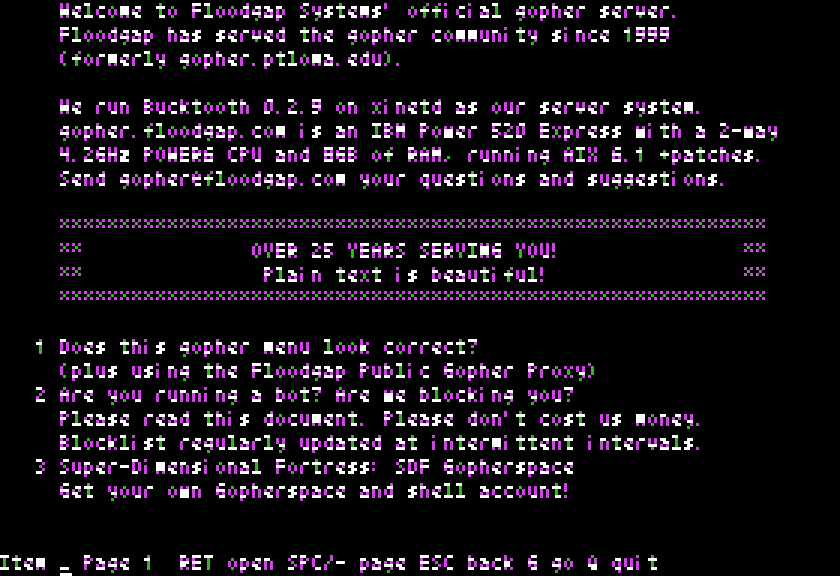
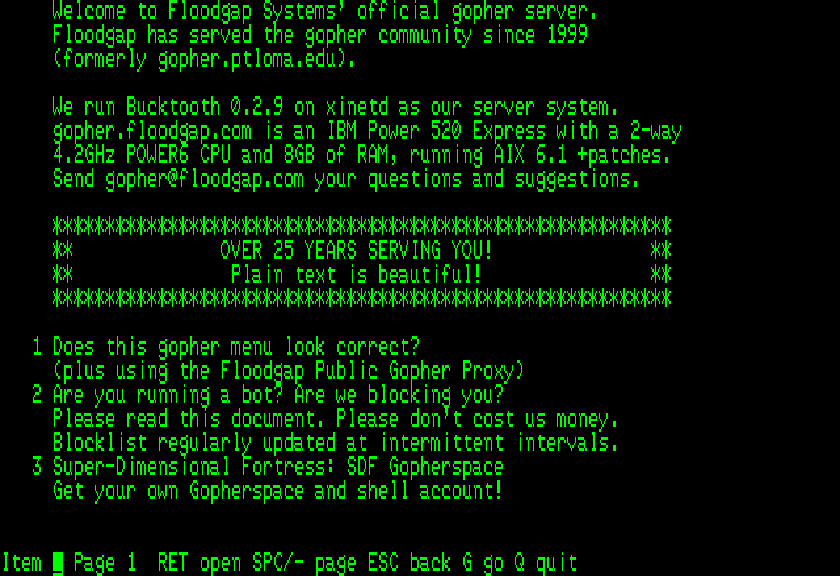
Replace Soft-70 screenshots with VideoTerm images

diff --git a/src/test/java/com/nordstrom/uthernet/apple/Screenshots.java b/src/test/java/com/nordstrom/uthernet/apple/Screenshots.java
@@ -1,11 +1,13 @@
 package com.nordstrom.uthernet.apple;
 
-import com.nordstrom.emulator.MemoryBus;
-import com.nordstrom.emulator.system.HiResRenderer;
-import com.nordstrom.emulator.system.VideoSoftSwitches;
+import com.nordstrom.emulator.expansion.VideoTerm;
+import com.nordstrom.emulator.expansion.VideoTermRenderer;
+import com.nordstrom.emulator.system.RomFiles;
 
 import javax.imageio.ImageIO;
 import java.awt.Color;
+import java.awt.Graphics2D;
+import java.awt.RenderingHints;
 import java.awt.image.BufferedImage;
 import java.io.BufferedReader;
 import java.io.File;
@@ -13,19 +15,27 @@ import java.io.IOException;
 import java.io.InputStreamReader;
 import java.net.Socket;
 import java.nio.charset.StandardCharsets;
+import java.nio.file.Path;
 import java.util.ArrayList;
 import java.util.List;
+import java.util.Properties;
 
 /**
  * Captures the documentation's screenshots: runs TELNET and GOPHER on the
  * 6502 (AppleMachine), connected through the card's virtual network to
- * The Norse Wanderer BBS and Floodgap's Gopher server, and draws the
- * Soft-70 Hi-Res screen with ReplicApple2Plus's own HiResRenderer at the
- * application's 3x scale. Needs Internet access.
+ * The Norse Wanderer BBS and Floodgap's Gopher server, with a VideoTerm in
+ * slot 3, and draws its 80-column screen the way ReplicApple2Plus does: the
+ * card model's own VideoTermRenderer, green on black, scaled to the
+ * application's screen. Needs Internet access, and the VideoTerm's two ROM
+ * images in the folder given as the second argument.
+ * <p>
+ * Arguments: the folder to write the images to, then the ROM folder.
  */
 public final class Screenshots {
 
-    private static final int SCALE = 3;
+    /** The application's screen: 280x192 at 3x, which its 80-column view fills. */
+    private static final int WIDTH = 840, HEIGHT = 576;
+    private static final int LIT = Color.GREEN.getRGB();
     private static final String BBS = "www.norsewanderer.com:2323";
     private static final String GOPHER_HOST = "gopher.floodgap.com";
     private static final int GOPHER_PORT = 70;
@@ -34,8 +44,13 @@ public final class Screenshots {
     private static File out;
 
     public static void main(String[] args) throws Exception {
-        out = new File(args.length > 0 ? args[0] : "docs/images");
+        if (args.length < 2) {
+            throw new IllegalArgumentException("usage: Screenshots <image folder> <ROM folder>;"
+                + " with Gradle: ./gradlew screenshots -Proms=<ROM folder>");
+        }
+        out = new File(args[0]);
         out.mkdirs();
+        RomFiles.setDirectory(Path.of(args[1]));
         telnet();
         gopher();
     }
@@ -44,7 +59,7 @@ public final class Screenshots {
     // TELNET
 
     private static void telnet() throws Exception {
-        AppleMachine apple = new AppleMachine(false, "telnet.bin");
+        AppleMachine apple = machine("telnet.bin");
         try {
             apple.runUntil(() -> apple.screenContains("Connect to host"), 30_000, "the host prompt");
             apple.type(BBS);
@@ -73,7 +88,7 @@ public final class Screenshots {
         int[] textItem = locate(menu, '0');
         int[] searchItem = locate(menu, '7');
 
-        AppleMachine apple = new AppleMachine(false, "gopher.bin");
+        AppleMachine apple = machine("gopher.bin");
         try {
             apple.runUntil(() -> apple.screenContains("Go to host"), 30_000, "the go-to prompt");
             apple.type(GOPHER_HOST + "\r");
@@ -178,27 +193,42 @@ public final class Screenshots {
         }
     }
 
-    private static void save(AppleMachine apple, String name) throws IOException {
-        MemoryBus bus = new MemoryBus() {
-            @Override
-            public int read(int address) {
-                return apple.ram[address];
-            }
+    /** @return the machine with a real VideoTerm in slot 3 */
+    private static AppleMachine machine(String program) throws IOException {
+        AppleMachine apple = new AppleMachine(false, program);
+        VideoTerm videoTerm = new VideoTerm();
+        videoTerm.configure(new Properties());
+        apple.plugInWithRom(3, videoTerm);
+        Screenshots.videoTerm = videoTerm;
+        return apple;
+    }
 
-            @Override
-            public void write(int address, int value) {
-            }
-        };
-        Color[][] pixels = HiResRenderer.render(bus, new VideoSoftSwitches());
-        int w = pixels[0].length, h = pixels.length;
-        BufferedImage image = new BufferedImage(w * SCALE, h * SCALE, BufferedImage.TYPE_INT_RGB);
-        for (int y = 0; y < h * SCALE; y++) {
-            for (int x = 0; x < w * SCALE; x++) {
-                image.setRGB(x, y, pixels[y / SCALE][x / SCALE].getRGB());
+    /** The VideoTerm of the machine running now. */
+    private static VideoTerm videoTerm;
+
+    private static void save(AppleMachine apple, String name) throws IOException {
+        if (!apple.text || !apple.an0) {
+            throw new IllegalStateException("the 80-column screen isn't showing; screen:\n" + apple.screen());
+        }
+        boolean[][] dots = VideoTermRenderer.render(videoTerm, true);
+        BufferedImage card = new BufferedImage(dots[0].length, dots.length, BufferedImage.TYPE_INT_RGB);
+        for (int y = 0; y < dots.length; y++) {
+            for (int x = 0; x < dots[y].length; x++) {
+                if (dots[y][x]) {
+                    card.setRGB(x, y, LIT);
+                }
             }
         }
+        BufferedImage image = new BufferedImage(WIDTH, HEIGHT, BufferedImage.TYPE_INT_RGB);
+        Graphics2D g = image.createGraphics();
+        try {
+            g.setRenderingHint(RenderingHints.KEY_INTERPOLATION, RenderingHints.VALUE_INTERPOLATION_NEAREST_NEIGHBOR);
+            g.drawImage(card, 0, 0, WIDTH, HEIGHT, null);
+        } finally {
+            g.dispose();
+        }
         ImageIO.write(image, "png", new File(out, name));
-        System.out.println(name + "\n" + apple.screen());
+        System.out.println(name + "\n" + VideoTermRenderer.text(videoTerm));
     }
 
     private Screenshots() {

diff --git a/src/test/java/com/nordstrom/uthernet/apple/AppleMachine.java b/src/test/java/com/nordstrom/uthernet/apple/AppleMachine.java
@@ -16,7 +16,8 @@ import java.util.function.BooleanSupplier;
  * Just enough Apple II+ to run the utilities in src/apple on
  * ReplicApple2Plus's 6502: 48K of RAM, the keyboard with the shift-key mod
  * on pushbutton 2, the display soft switches, the Uthernet II in slot 1,
- * optionally a {@link VideoTermDouble} in slot 3, optionally a card in slot 0
+ * optionally a {@link VideoTermDouble} in slot 3 -- or a real card there,
+ * whose own ROM and $C800 expansion ROM are mapped -- optionally a card in slot 0
  * that bank-switches $D000-$FFFF (a Saturn or Language Card), and a
  * stand-in ROM that
  * is all RTS except the Monitor's WAIT, which IP65's timer calls. A
@@ -39,8 +40,12 @@ final class AppleMachine implements MemoryBus {
     final Uthernet2 card = new Uthernet2();
     final VideoTermDouble videoTerm;
     private final SlotCard[] otherCards = new SlotCard[8];
+    /** The cards plugged in with their ROM mapped, by slot. */
+    private final SlotCard[] romCards = new SlotCard[8];
     /** The card in slot 0 that bank-switches $D000-$FFFF, or null. */
     private SlotCard upperMemory;
+    /** The slot whose card owns $C800-$CFFF, or 0 for none. */
+    private int expansionOwner;
     private final Deque<int[]> keys = new ArrayDeque<>();
     private int keyLatch;
     private boolean shiftHeld;
@@ -71,6 +76,18 @@ final class AppleMachine implements MemoryBus {
     void plugIn(int slot, SlotCard other) {
         otherCards[slot] = other;
     }
+
+    /**
+     * Puts a card in a slot with its ROM mapped as well: its own page at
+     * $Cn00, and $C800-$CFFF while it owns that space -- claimed by an access
+     * to its own page, released by an access to $CFFF. The slot must not be
+     * the VideoTermDouble's.
+     */
+    void plugInWithRom(int slot, SlotCard other) {
+        plugIn(slot, other);
+        romCards[slot] = other;
+    }
+
 
     /** Puts a card that bank-switches $D000-$FFFF in slot 0, as the Saturn or Language Card goes. */
     void plugInUpperMemory(SlotCard card) {
@@ -210,7 +227,10 @@ final class AppleMachine implements MemoryBus {
             return readIo(address);
         }
         if (address < 0xD000) {
-            return videoTerm == null ? 0 : videoTerm.readSlotSpace(address);
+            if (videoTerm != null) {
+                return videoTerm.readSlotSpace(address);
+            }
+            return slotSpace(address, -1);
         }
         if (upperMemory != null) {
             java.util.OptionalInt ram = upperMemory.readUpperMemory(address - 0xD000);
@@ -239,10 +259,43 @@ final class AppleMachine implements MemoryBus {
         } else if (address < 0xD000) {
             if (videoTerm != null) {
                 videoTerm.writeSlotSpace(address, value);
+            } else {
+                slotSpace(address, value);
             }
         } else if (upperMemory != null) {
             upperMemory.writeUpperMemory(address - 0xD000, value);
         }
+    }
+
+    /** $C100-$CFFF for cards plugged in with their ROM: a read when value is -1, else a write. */
+    private int slotSpace(int address, int value) {
+        int result = 0;
+        if (address < 0xC800) {
+            int slot = (address >> 8) & 7;
+            SlotCard card = romCards[slot];
+            if (card != null && card.hasRom()) {
+                if (card.wantsExpansionRom()) {
+                    expansionOwner = slot;
+                }
+                if (value < 0) {
+                    result = card.readRom(address & 0xFF);
+                } else {
+                    card.writeRom(address & 0xFF, value);
+                }
+            }
+        } else if (expansionOwner != 0) {
+            SlotCard owner = romCards[expansionOwner];
+            if (value < 0) {
+                result = owner.readExpansionRom(address - 0xC800);
+            } else {
+                owner.writeExpansionRom(address - 0xC800, value);
+            }
+            if (address == 0xCFFF) {
+                expansionOwner = 0;
+                owner.onExpansionRomReleased();
+            }
+        }
+        return result;
     }
 
     private int readIo(int address) {

diff --git a/README.md b/README.md
@@ -102,10 +102,12 @@ in that project), at the version named in `gradle.properties`.
 
 The utilities and their disk images are checked in, so that needs nothing
 else. Rebuilding them takes cc65, an IP65 checkout and AppleCommander; see
-`src/apple/Makefile`. `./gradlew screenshots` captures the screenshots in
-`docs/images` again, from the programs in `src/test/resources`; it
-connects to The Norse Wanderer BBS and `gopher.floodgap.com`, so it
-needs Internet access.
+`src/apple/Makefile`. `./gradlew screenshots -Proms=DIR` captures the
+screenshots in `docs/images` again, from the programs in
+`src/test/resources`, on the VideoTerm's 80-column screen. It connects to
+The Norse Wanderer BBS and `gopher.floodgap.com`, so it needs Internet
+access, and reads the VideoTerm's two ROM images from `DIR` -- the same
+files, by the same names, as ReplicApple2Plus's ROM folder holds.
 
 ## Verification
 

diff --git a/UTILITIES.md b/UTILITIES.md
@@ -10,8 +10,8 @@ GitHub release:
 | `uthernet2-dos33.dsk` | DOS 3.3 |
 | `uthernet2-prodos.po` | ProDOS (with BASIC.SYSTEM) |
 
-The screenshots here are of the Soft-70 screen (see [The screen](#the-screen)),
-drawn as ReplicApple2Plus draws the Hi-Res page. TELNET is connected to
+The screenshots here are of the VideoTerm's 80-column screen (see
+[The screen](#the-screen)), drawn as ReplicApple2Plus draws it. TELNET is connected to
 [The Norse Wanderer](https://norsewanderer.com), an Apple II BBS from
 the 1980s, back online (`www.norsewanderer.com`, port 2323); GOPHER to
 Floodgap's Gopher server, `gopher.floodgap.com`.

diff --git a/RELEASING.md b/RELEASING.md
@@ -46,7 +46,8 @@ Before tagging, verify:
    outputs committed (`make` there; see its header for what it needs):
    both disk images in `src/apple/disks/` and the two programs it copies
    to `src/test/resources/`. If what the programs show changed, the
-   screenshots are captured again (`./gradlew screenshots`) and committed.
+   screenshots are captured again (`./gradlew screenshots -Proms=DIR`,
+   with `DIR` holding the VideoTerm's ROM images) and committed.
 5. README.md, UTILITIES.md and HARDWARE-REFERENCE.md are up to date.
 
 > **IMPORTANT**: Do a full build verification BEFORE tagging. If a bug is
